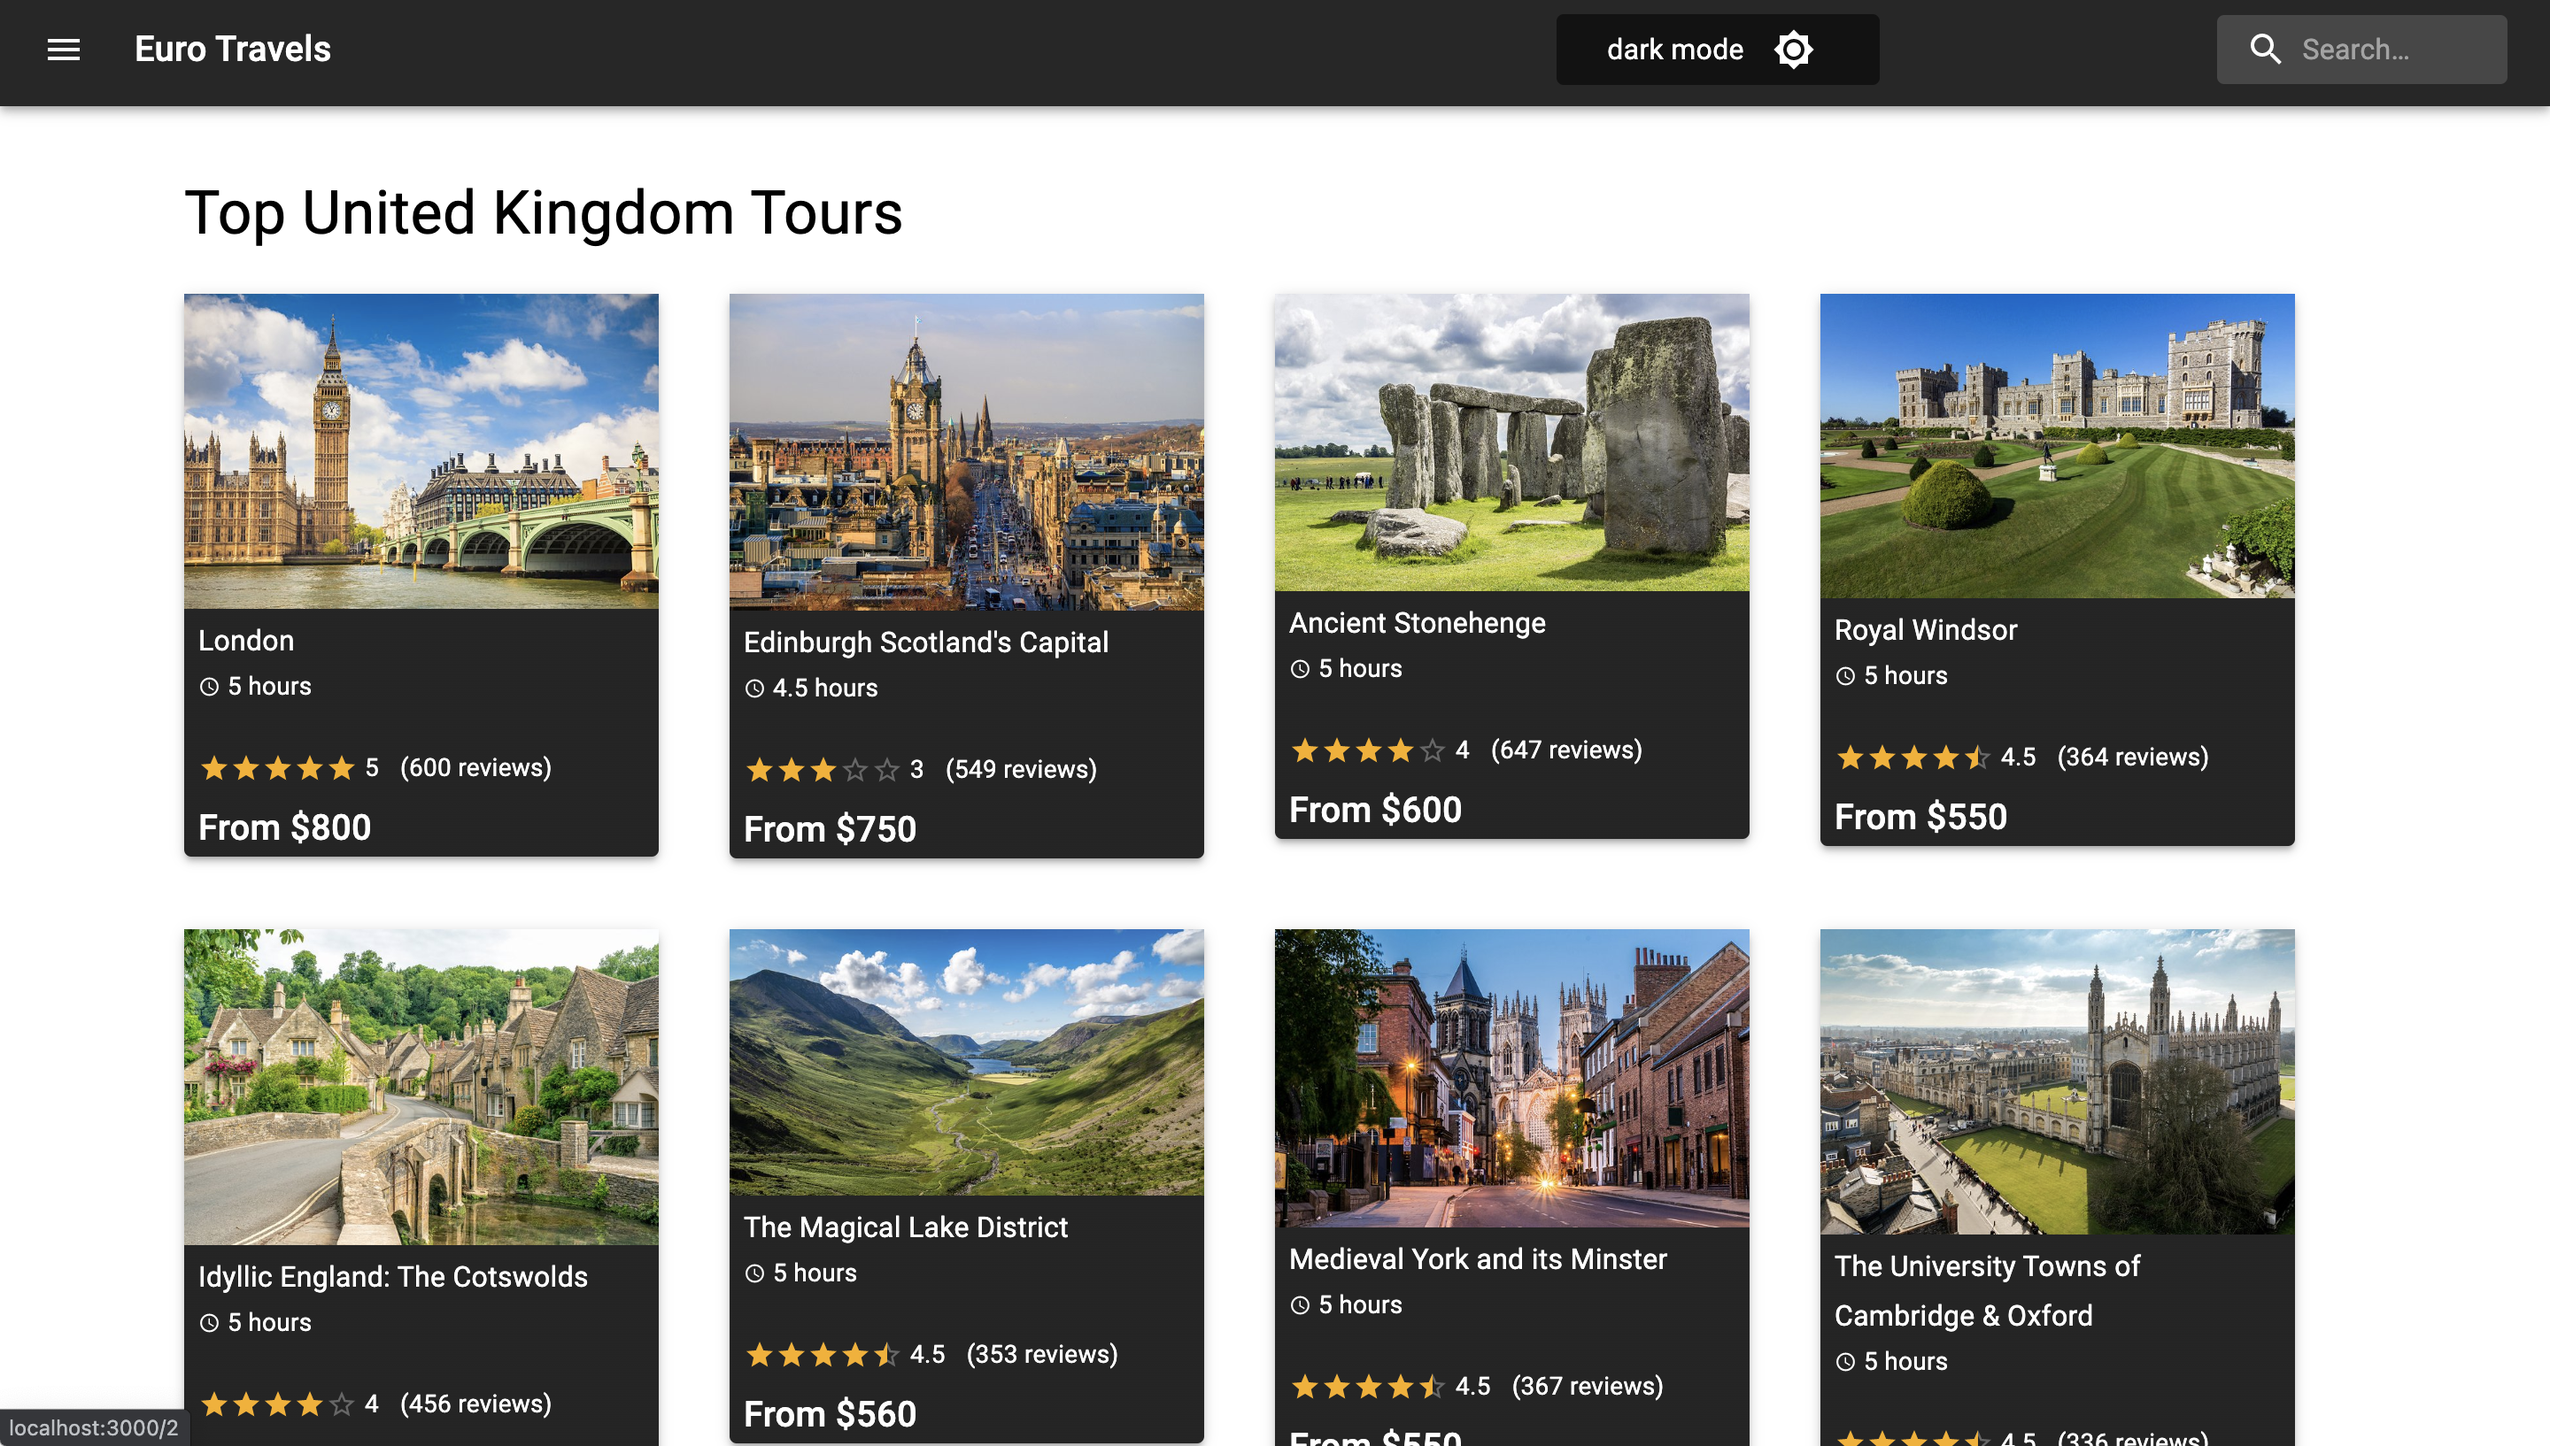
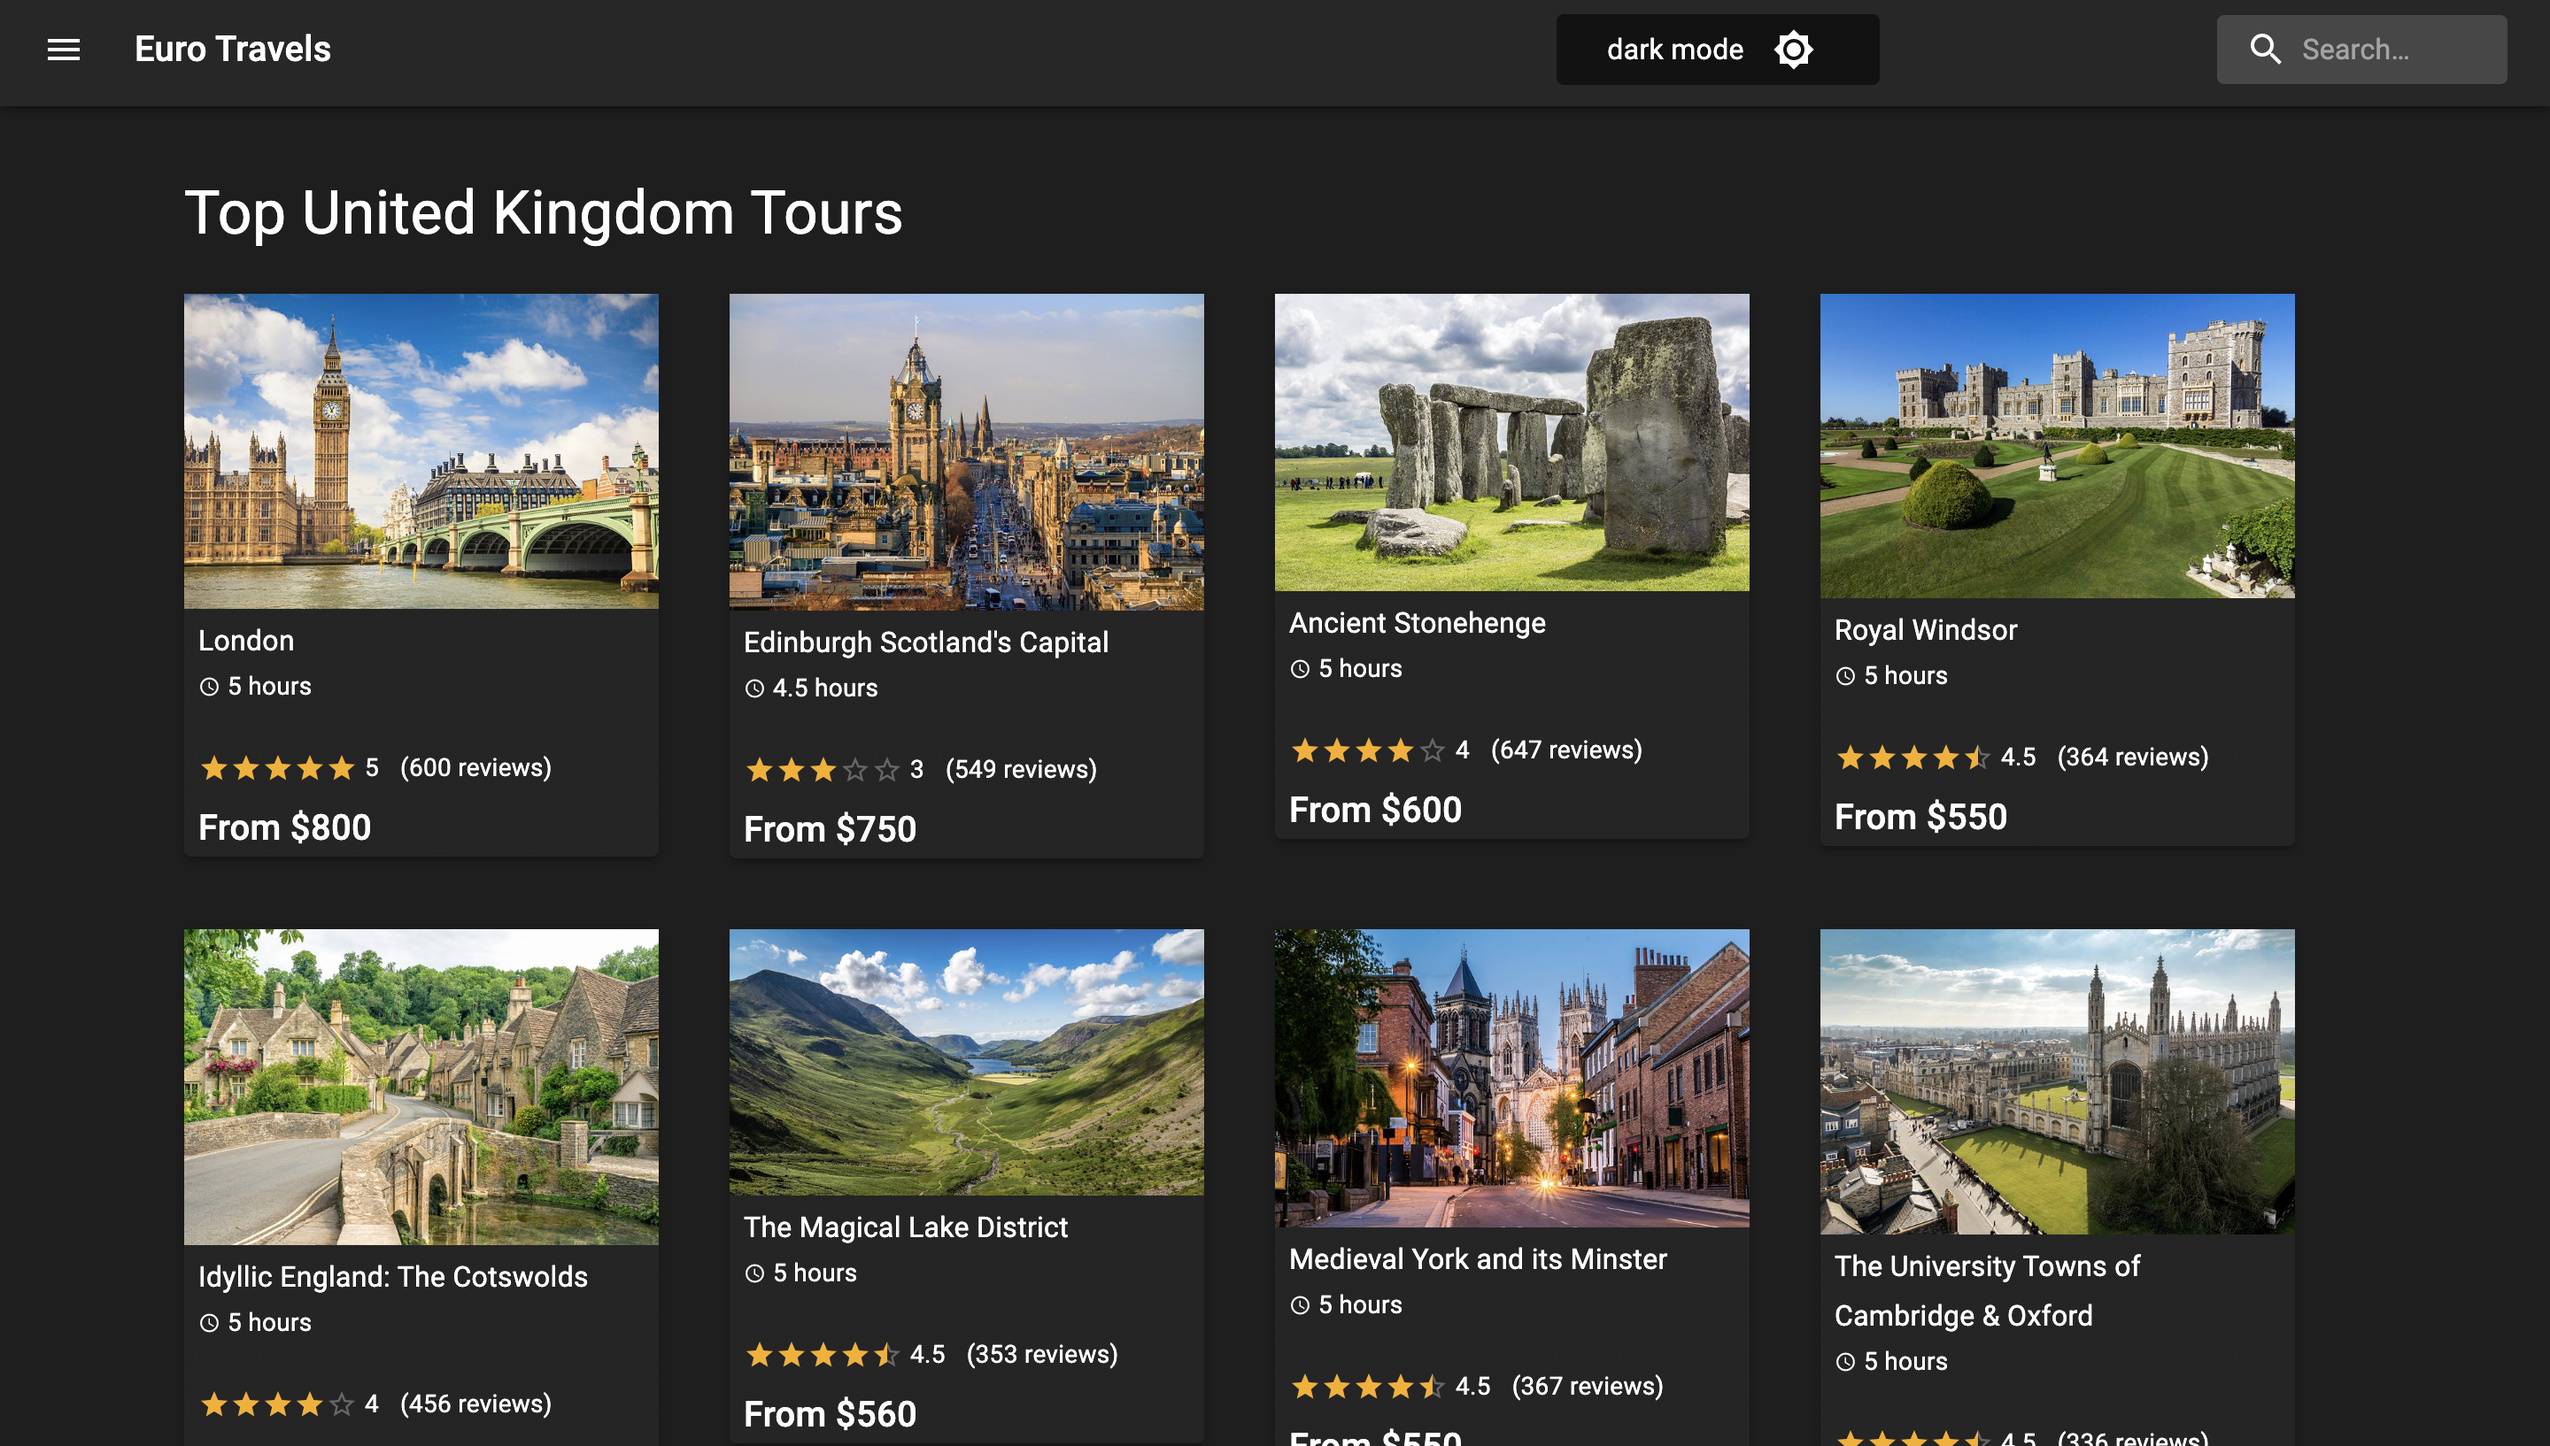
first commit

diff --git a/public/index.html b/public/index.html
@@ -1,6 +1,13 @@
 <!DOCTYPE html>
 <html lang="en">
   <head>
+    <!-- Google Tag Manager -->
+<script>(function(w,d,s,l,i){w[l]=w[l]||[];w[l].push({'gtm.start':
+    new Date().getTime(),event:'gtm.js'});var f=d.getElementsByTagName(s)[0],
+    j=d.createElement(s),dl=l!='dataLayer'?'&l='+l:'';j.async=true;j.src=
+    'https://www.googletagmanager.com/gtm.js?id='+i+dl;f.parentNode.insertBefore(j,f);
+    })(window,document,'script','dataLayer','GTM-M7HT7F2');</script>
+    <!-- End Google Tag Manager -->
     <meta charset="utf-8" />
     <link rel="icon" href="%PUBLIC_URL%/favicon.ico" />
     <link
@@ -31,6 +38,10 @@
     <title>React App</title>
   </head>
   <body>
+    <!-- Google Tag Manager (noscript) -->
+<noscript><iframe src="https://www.googletagmanager.com/ns.html?id=GTM-M7HT7F2"
+  height="0" width="0" style="display:none;visibility:hidden"></iframe></noscript>
+  <!-- End Google Tag Manager (noscript) -->
     <noscript>You need to enable JavaScript to run this app.</noscript>
     <div id="root"></div>
     <!--

diff --git a/src/App.js b/src/App.js
@@ -5,18 +5,24 @@ import SearchAppBar from './components/AppBar';
 import Tour from './pages/Tour';
 import {ColorModeProvider} from './components/ColourModeProvider';
 import MUIThemeProvider from './components/ThemeProvider';
+import { Paper } from '@mui/material';
+import UseWindowSize from "./components/UseWindowSize";
 
 
 function App() {
+  const { width, height } = UseWindowSize();
   return (
+    
     <BrowserRouter>
       <ColorModeProvider>
       <MUIThemeProvider>
+      <Paper style={{ height: '135vh'}}>
       <SearchAppBar/>
       <Routes>
         <Route path='/' element={<Home/>}/>
         <Route path='/:id' element={<Tour/>}/>
       </Routes>
+      </Paper>
       </MUIThemeProvider>
       </ColorModeProvider>
     </BrowserRouter>

diff --git a/src/components/ToggleButton.js b/src/components/ToggleButton.js
@@ -25,7 +25,7 @@ export const ToggleButton = () => {
         <Box
               sx={{
                 display: 'flex',
-                width: '50%',
+                width: '30%',
                 alignItems: 'center',
                 justifyContent: 'center',
                 bgcolor: 'background.default',
@@ -34,7 +34,7 @@ export const ToggleButton = () => {
                 marginRight: 30
               }}
             >
-              {theme.palette.mode} mode
+              {theme.palette.mode}
               <IconButton sx={{ ml: 1 }} onClick={colorMode.toggleColorMode} color="inherit">
                 {theme.palette.mode === 'dark' ? <Brightness7Icon /> : <Brightness4Icon />}
               </IconButton>

diff --git a/src/components/UseWindowSize.js b/src/components/UseWindowSize.js
@@ -1,0 +1,23 @@
+import React,{useState} from "react";
+
+export default function useWindowSize() {
+  const isSSR = typeof window !== "undefined";
+  const [windowSize, setWindowSize] = React.useState({
+    width: isSSR ? 1200 : window.innerWidth,
+    height: isSSR ? 800 : window.innerHeight,
+  });
+
+  function changeWindowSize() {
+    setWindowSize({ width: window.innerWidth, height: window.innerHeight });
+  }
+
+  React.useEffect(() => {
+    window.addEventListener("resize", changeWindowSize);
+
+    return () => {
+      window.removeEventListener("resize", changeWindowSize);
+    };
+  }, []);
+
+  return windowSize;
+}

diff --git a/src/components/TourCard.js b/src/components/TourCard.js
@@ -63,8 +63,8 @@ const theme = useTheme();
                     </Typography>
                 </Box>
                 <Box>
-                    <Typography variant="h6" component="h3" marginTop={1}>
-                    From ${props.rate}
+                    <Typography variant="h6" component="h4" marginTop={1}>
+                    From £{props.rate}
                     </Typography>
                 </Box>
 

diff --git a/src/index.js b/src/index.js
@@ -3,6 +3,9 @@ import ReactDOM from 'react-dom/client';
 import './index.css';
 import App from './App';
 import MUIThemeProvider from './components/ThemeProvider';
+import TagManager from 'react-gtm-module'
+ 
+
 
 const container = document.getElementById('root');
 const root = ReactDOM.createRoot(container);
